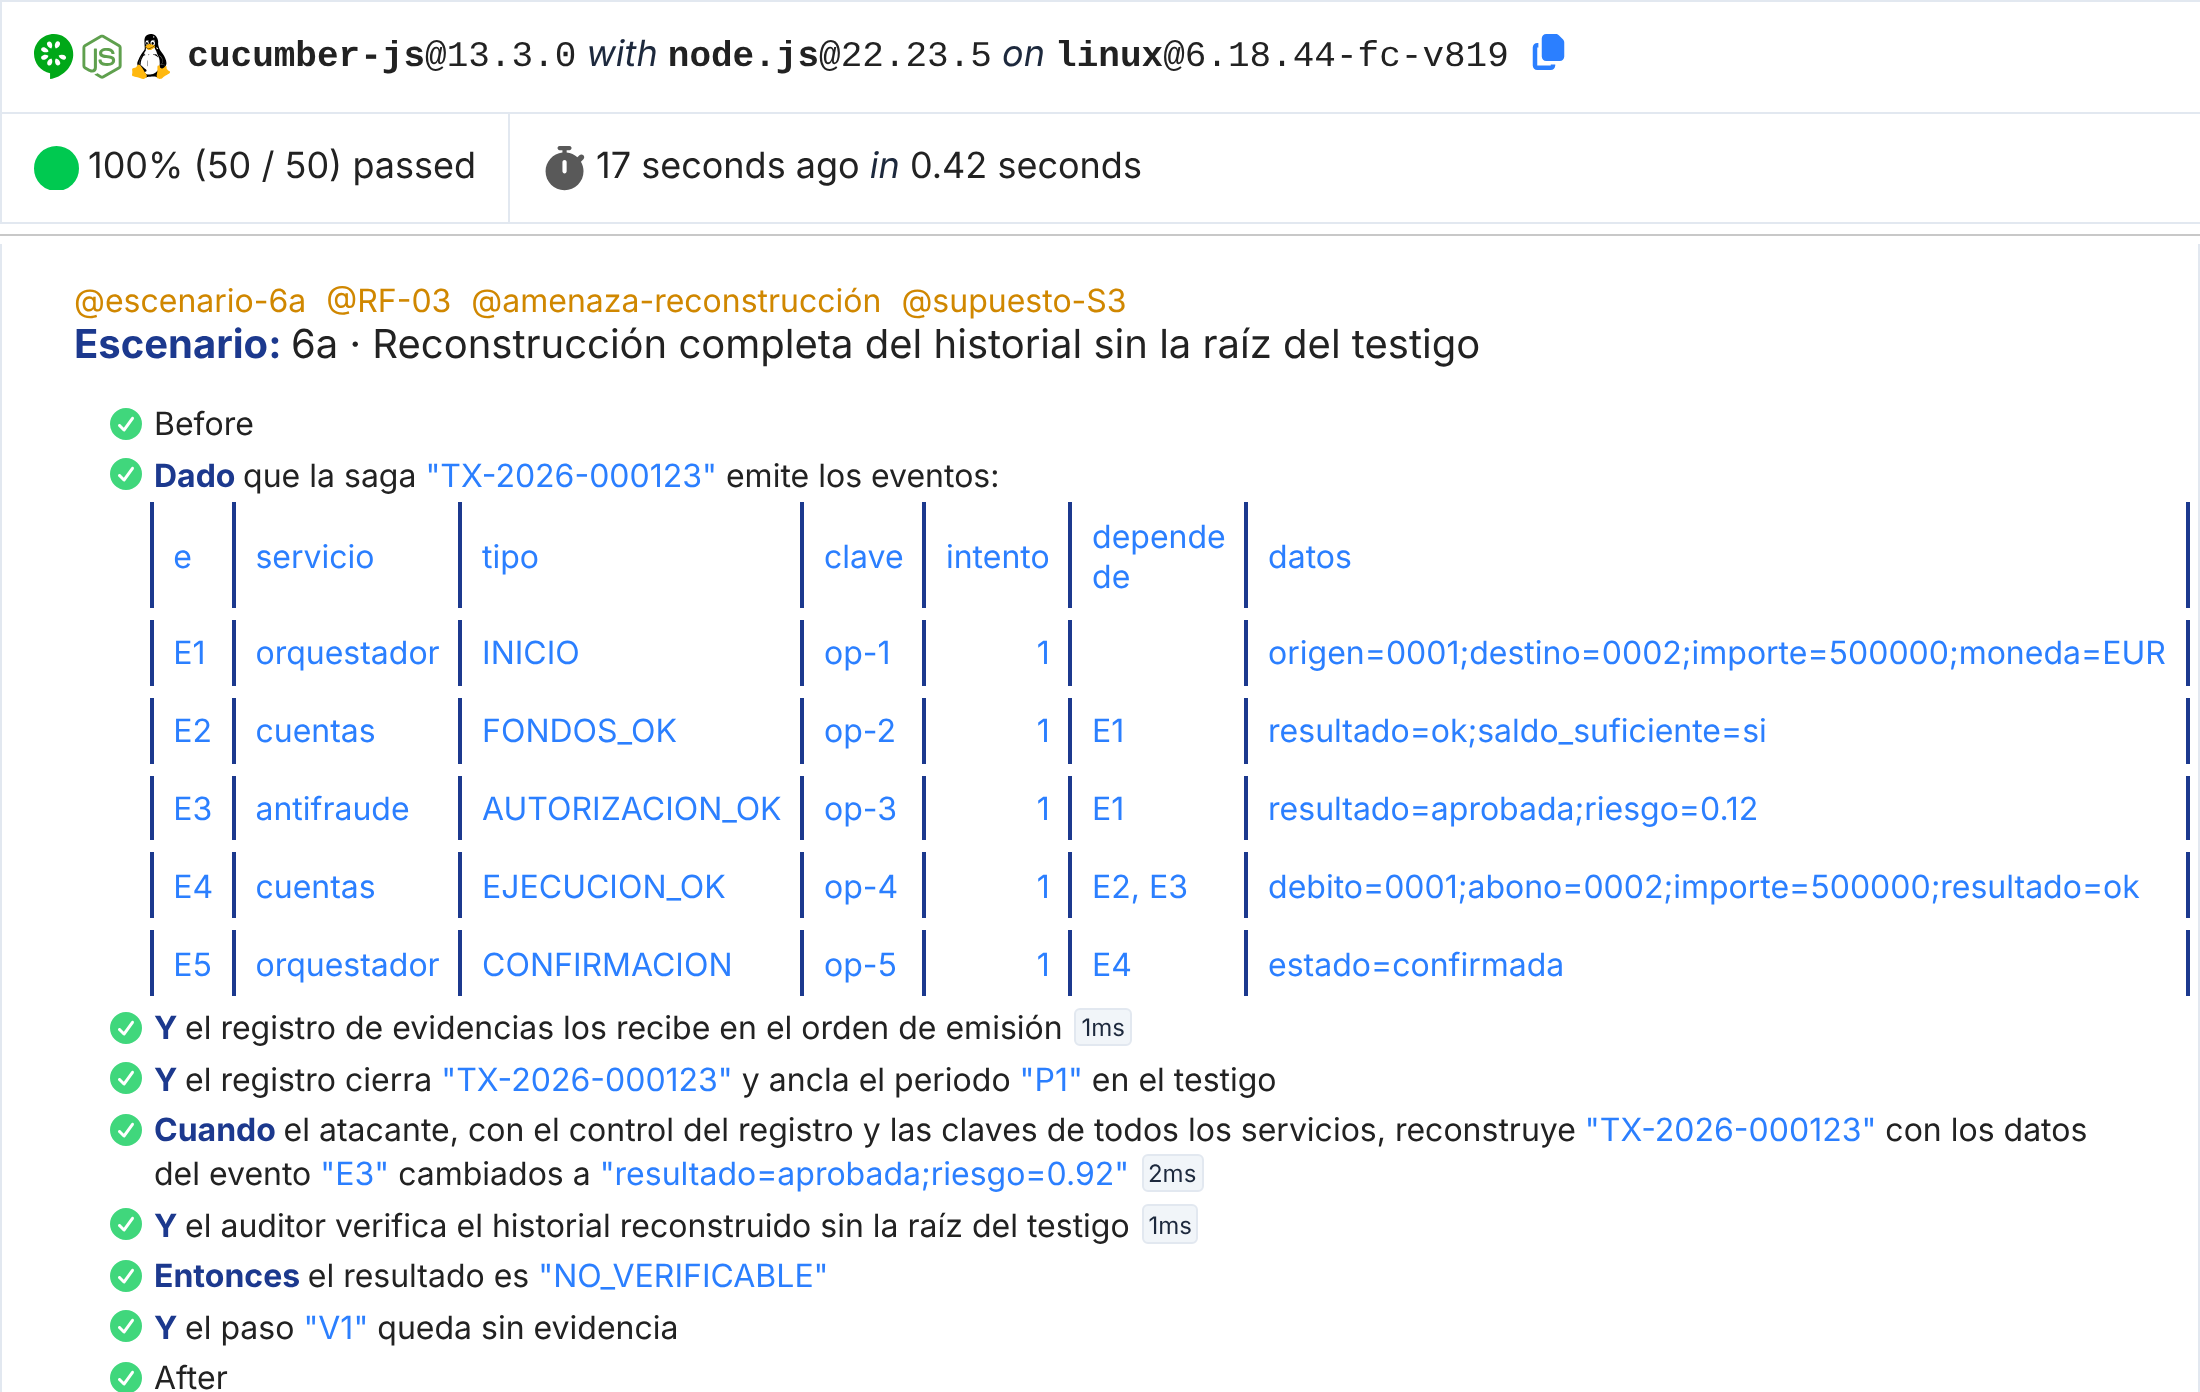
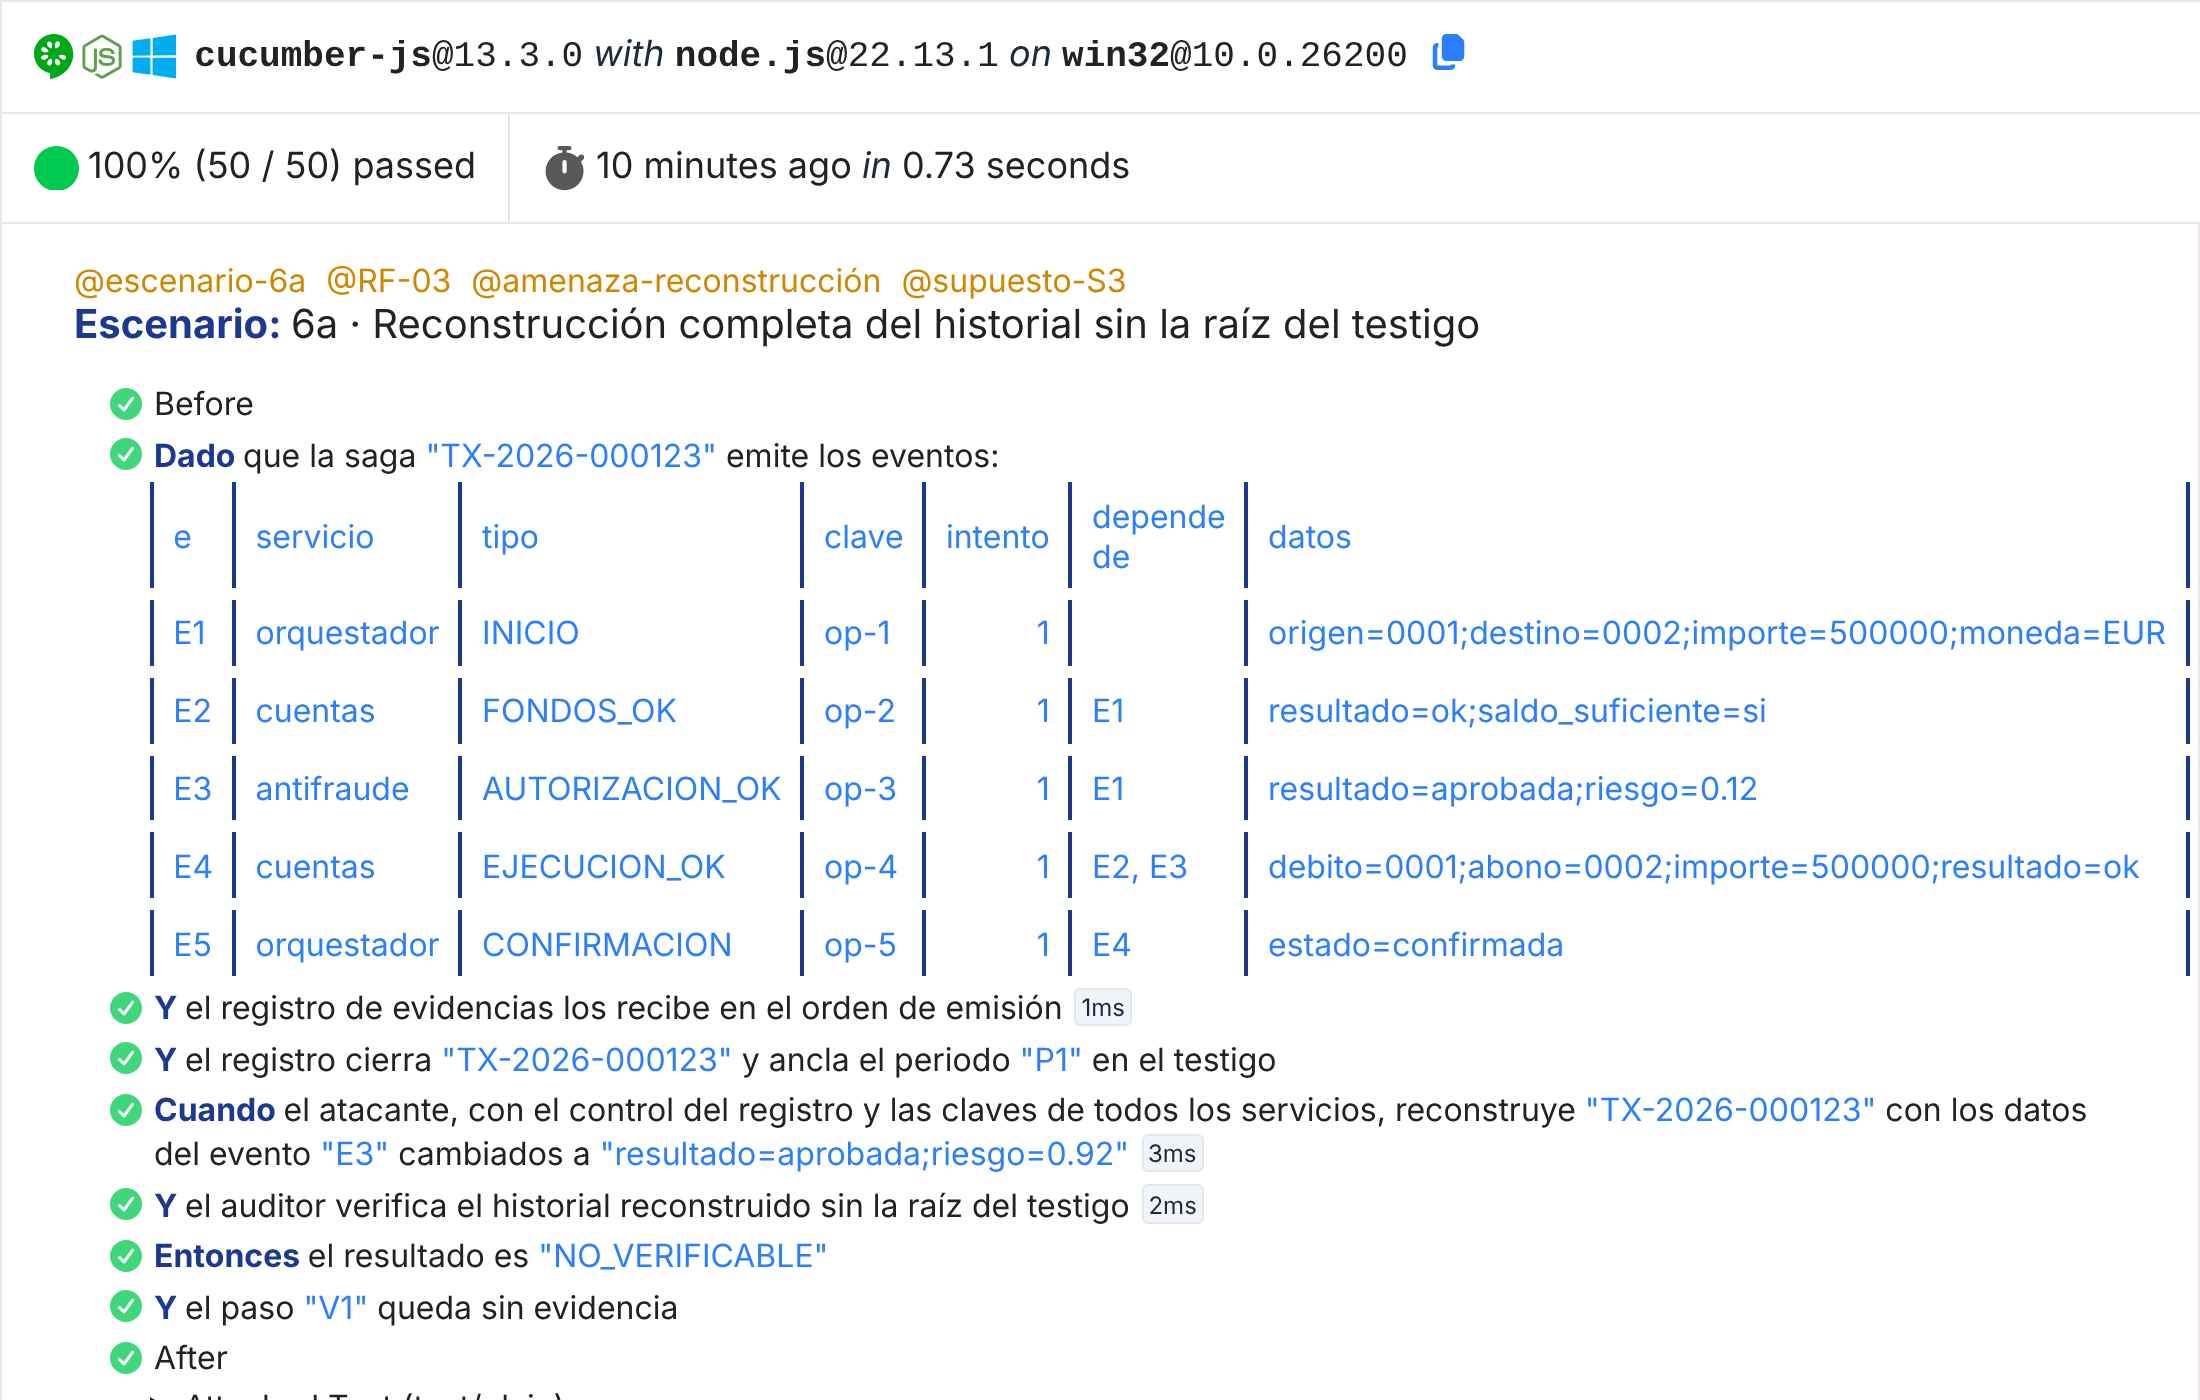
update resumen

diff --git a/prototipo/e2e/resumen.ts b/prototipo/e2e/resumen.ts
@@ -19,7 +19,7 @@ for (const c of informe) {
     const ok = e.steps.every(s => s.result.status === 'passed');
     if (ok) pasan++;
     const tags = (e.tags ?? []).map(t => t.name.slice(1)).filter(t => !t.startsWith('tabla')).join(' ');
-    filas.push(`| ${c.uri.split('/').pop()} | ${e.name} | ${tags} | ${e.steps.length} | ${ok ? 'pasa' : 'FALLA'} |`);
+    filas.push(`| ${c.uri.split(/[\\/]/).pop() ?? c.uri} | ${e.name} | ${tags} | ${e.steps.length} | ${ok ? 'pasa' : 'FALLA'} |`);
   }
 }
 const md = [

diff --git a/prototipo/informes/resumen.md b/prototipo/informes/resumen.md
@@ -50,7 +50,7 @@
 | 08-ejemplo-resuelto.feature | 4.3.2 · Codificación canónica y resumen del evento E1 | ejemplo-resuelto RNF-01 RNF-02 apartado-4.3.2 ecuación-2 ecuación-3 | 17 | pasa |
 | 08-ejemplo-resuelto.feature | 4.3.4 · Cadena de acumulación de la ejecución normal | ejemplo-resuelto RNF-01 RNF-02 apartado-4.3.4 ecuación-4 ecuación-5 | 14 | pasa |
 | 08-ejemplo-resuelto.feature | 4.3.4 · Efecto de una manipulación y de otro orden válido sobre la cadena | ejemplo-resuelto RNF-01 RNF-02 apartado-4.3.4 | 16 | pasa |
-| 08-ejemplo-resuelto.feature | 4.3.5 · Firma de E1 y punto de referencia de TX-2026-000123 | ejemplo-resuelto RNF-01 RNF-02 apartado-4.3.5 ecuación-6 ecuación-8 | 18 | pasa |
+| 08-ejemplo-resuelto.feature | 4.3.5 · Firma de E1 y punto de referencia de la transacción | ejemplo-resuelto RNF-01 RNF-02 apartado-4.3.5 ecuación-6 ecuación-8 | 18 | pasa |
 | 08-ejemplo-resuelto.feature | 4.3.5 · Árbol de Merkle del periodo P1 y prueba de inclusión | ejemplo-resuelto RNF-01 RNF-02 apartado-4.3.5 ecuación-9 ecuación-10 | 17 | pasa |
-| 08-ejemplo-resuelto.feature | 4.3.6 · Verificación paso a paso de TX-2026-000123 | ejemplo-resuelto RNF-01 RNF-02 apartado-4.3.6 algoritmo-4 | 17 | pasa |
+| 08-ejemplo-resuelto.feature | 4.3.6 · Verificación paso a paso de la transacción de referencia | ejemplo-resuelto RNF-01 RNF-02 apartado-4.3.6 algoritmo-4 | 17 | pasa |
 | 08-ejemplo-resuelto.feature | Valores acumulados finales publicados en el anexo B | ejemplo-resuelto RNF-01 RNF-02 valores-publicados anexo-B | 14 | pasa |
